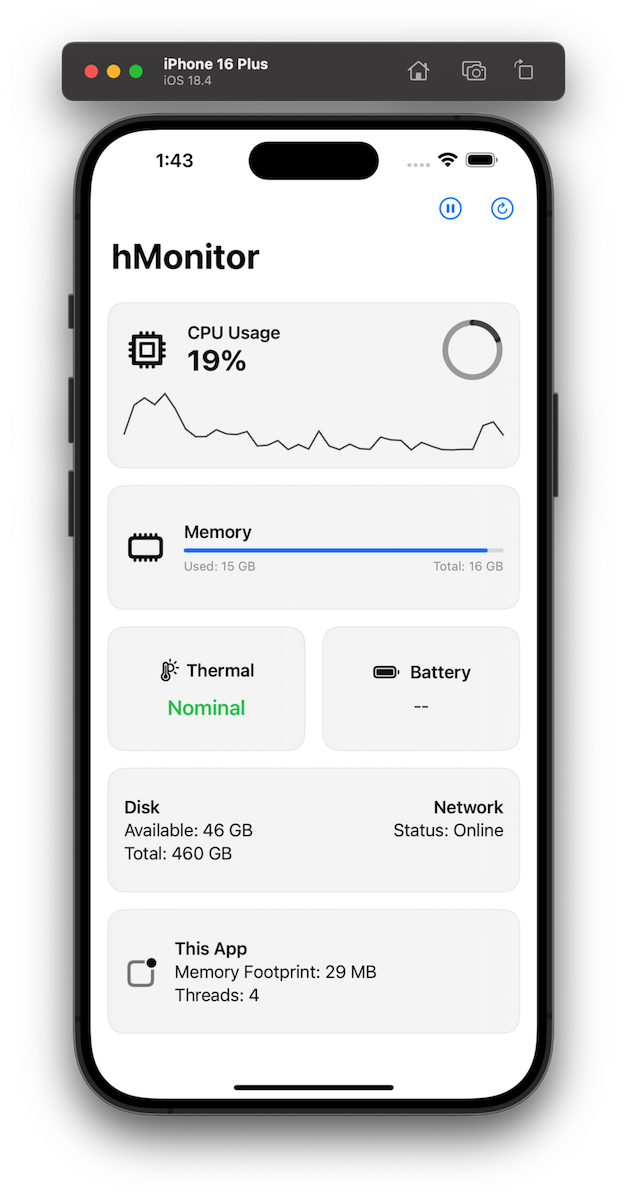
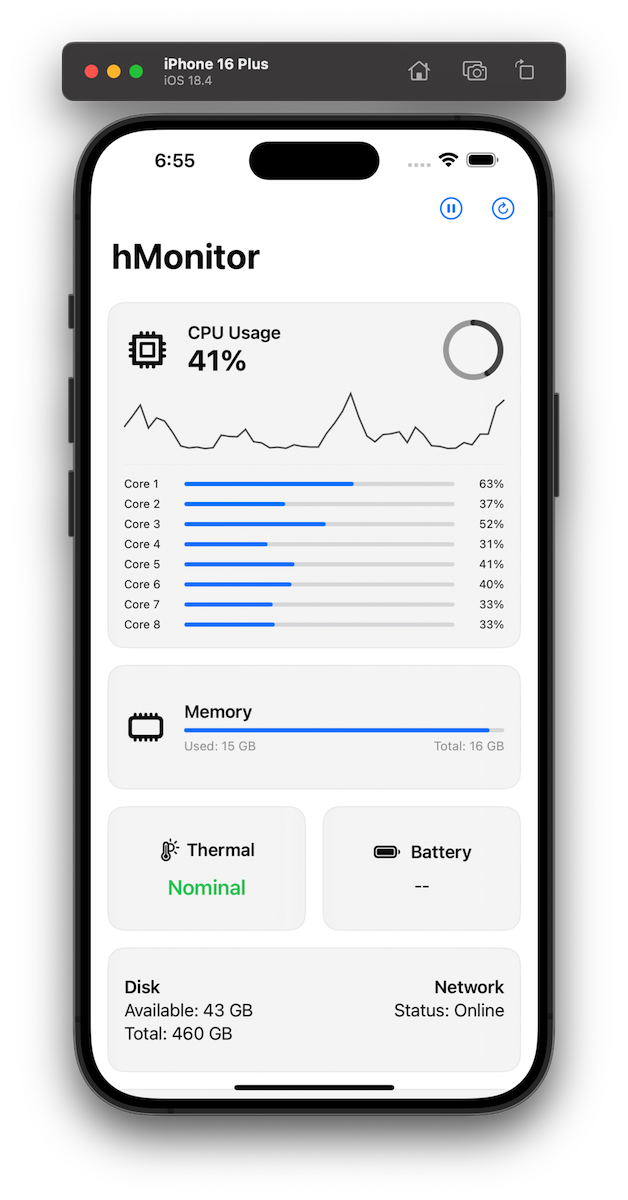
update

diff --git a/hMonitor/SystemMonitor.swift b/hMonitor/SystemMonitor.swift
@@ -15,6 +15,7 @@ final class SystemMonitor: ObservableObject {
     private var lastCPUTicks: host_cpu_load_info = host_cpu_load_info(
         cpu_ticks: (0,0,0,0)
     )
+    private var lastPerCoreTicks: [(UInt32, UInt32, UInt32, UInt32)] = []
     private var lastCPUSampleTime: CFAbsoluteTime = CFAbsoluteTimeGetCurrent()
 
     // Network
@@ -60,6 +61,7 @@ final class SystemMonitor: ObservableObject {
 
     func readSnapshot(appInfo: AppMonitor.AppInfo) -> ResourceSnapshot {
         let cpu = readCPUTotalUsage()
+        let perCore = readPerCoreUsage()
         let mem = readMemory()
         let thermal = ProcessInfo.processInfo.thermalState
         let (avail, total) = readDisk()
@@ -78,7 +80,8 @@ final class SystemMonitor: ObservableObject {
             diskTotal: total,
             networkStatus: net,
             appMemoryFootprint: appInfo.footprint,
-            appThreadCount: appInfo.threadCount
+            appThreadCount: appInfo.threadCount,
+            perCoreCPU: perCore
         )
     }
 }
@@ -114,6 +117,53 @@ extension SystemMonitor {
         guard totalTicks > 0 else { return 0 }
         let busy = (user + sys + nice)
         return max(0, min(1, busy / totalTicks))
+    }
+    
+    func readPerCoreUsage() -> [Double] {
+        var cpuInfo: processor_info_array_t? = nil
+        var cpuInfoCount: mach_msg_type_number_t = 0
+        var processorCount: natural_t = 0
+
+        let kr = host_processor_info(mach_host_self(),
+                                     PROCESSOR_CPU_LOAD_INFO,
+                                     &processorCount,
+                                     &cpuInfo,
+                                     &cpuInfoCount)
+        guard kr == KERN_SUCCESS, let info = cpuInfo else { return [] }
+        defer {
+            let size = vm_size_t(cpuInfoCount) * vm_size_t(MemoryLayout<integer_t>.size)
+            vm_deallocate(mach_task_self_, vm_address_t(bitPattern: info), size)
+        }
+
+        let stride = Int(CPU_STATE_MAX)
+        var usages: [Double] = []
+        var newCache: [(UInt32, UInt32, UInt32, UInt32)] = []
+
+        for i in 0..<Int(processorCount) {
+            let base = i * stride
+            let user = UInt32(info[base + Int(CPU_STATE_USER)])
+            let sys  = UInt32(info[base + Int(CPU_STATE_SYSTEM)])
+            let idle = UInt32(info[base + Int(CPU_STATE_IDLE)])
+            let nice = UInt32(info[base + Int(CPU_STATE_NICE)])
+            let curr = (user, sys, idle, nice)
+
+            // 上一次的 ticks（若沒有，就用當前，避免負值）
+            let prev = i < lastPerCoreTicks.count ? lastPerCoreTicks[i] : curr
+
+            // 使用無號減法避免 tick 溢位造成負值
+            let dUser = Double(curr.0 &- prev.0)
+            let dSys  = Double(curr.1 &- prev.1)
+            let dIdle = Double(curr.2 &- prev.2)
+            let dNice = Double(curr.3 &- prev.3)
+            let total = dUser + dSys + dIdle + dNice
+            let busy = max(0.0, dUser + dSys + dNice)
+
+            usages.append(total > 0 ? min(1.0, busy / total) : 0.0)
+            newCache.append(curr)
+        }
+
+        lastPerCoreTicks = newCache
+        return usages
     }
 
     /// Memory (aggregate) using host_statistics64(vm_statistics64)

diff --git a/hMonitor/Cards.swift b/hMonitor/Cards.swift
@@ -35,6 +35,32 @@ struct CPUCard: View {
                 LineChart(values: snapshots.suffix(120).map { $0.cpuTotal })
                     .frame(height: 56)
             }
+            // ⬇ 每核心列
+            if let per = current?.perCoreCPU, !per.isEmpty {
+                Divider().opacity(0.2)
+                PerCoreBars(values: per)
+            }
+        }
+    }
+}
+
+struct PerCoreBars: View {
+    let values: [Double]
+    var body: some View {
+        VStack(spacing: 6) {
+            ForEach(Array(values.enumerated()), id: \.0) { idx, v in
+                HStack(spacing: 8) {
+                    Text("Core \(idx + 1)")
+                        .font(.caption2)
+                        .frame(minWidth: 50, alignment: .leading)
+                    ProgressView(value: v)
+                        .frame(height: 6)
+                    Text(String(format: "%.0f%%", v * 100))
+                        .font(.caption2)
+                        .monospacedDigit()
+                        .frame(width: 40, alignment: .trailing)
+                }
+            }
         }
     }
 }

diff --git a/hMonitor/ResourceSnapshot.swift b/hMonitor/ResourceSnapshot.swift
@@ -27,4 +27,5 @@ struct ResourceSnapshot: Identifiable {
     // App-specific
     let appMemoryFootprint: UInt64
     let appThreadCount: Int
+    let perCoreCPU: [Double]
 }

diff --git a/README.md b/README.md
@@ -4,3 +4,5 @@ Example of an iOS Activity Monitor.
 
 ![image.png](image.png)
 
+![image.png](image2.png)
+
